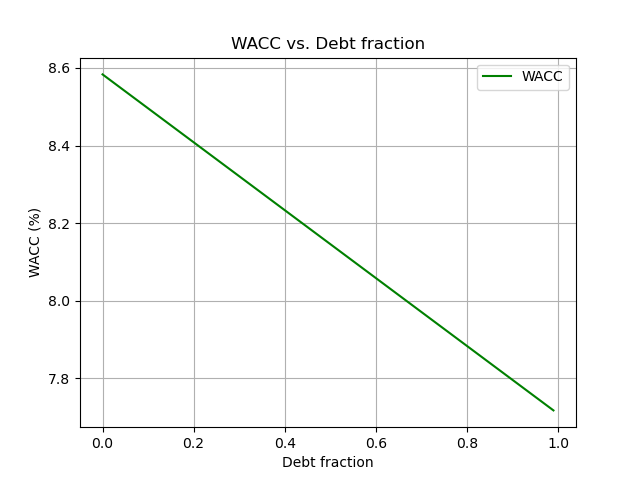
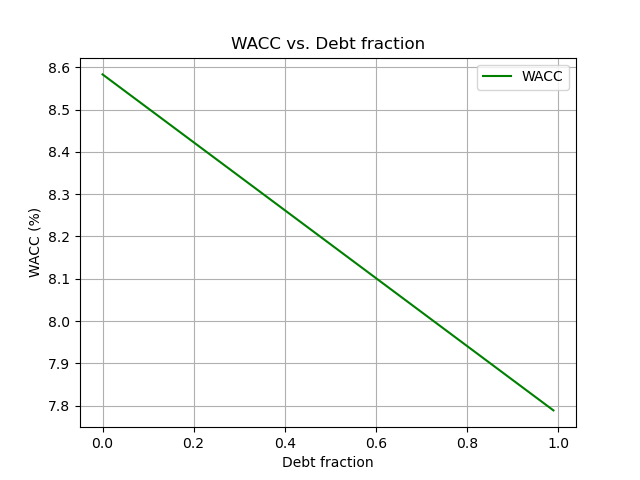
q10

diff --git a/calc.py b/calc.py
@@ -1,49 +1,42 @@
 import numpy as np
 import matplotlib.pyplot as plt
+from pathlib import Path
 
 # DRIVER LAYER (FUNDAMENTAL FORMULAE)
 
-def leverage_ratio_from_de_ratio(de_ratio):
+def dv_ratio_from_de_ratio(de_ratio):
     l = de_ratio / (de_ratio + 1)
     return l
 
-def wacc(tax, leverage_ratio, cost_of_equity, cost_of_debt):
-    wacc = (leverage_ratio * (1 - tax) * cost_of_debt) + ((1 - leverage_ratio) * cost_of_equity)
+def wacc(tax, debt_fraction, cost_of_equity, cost_of_debt):
+    wacc = (debt_fraction * (1 - tax) * cost_of_debt) + ((1 - debt_fraction) * cost_of_equity)
     return wacc
 
-def asset_beta(leverage_ratio, b_equity):
-    b_asset = (1 - leverage_ratio) * b_equity
+def asset_beta(debt_fraction, b_equity):
+    b_asset = (1 - debt_fraction) * b_equity
     return b_asset
 
 def cost_of_equity(beta, emrp, rf):
     return (rf + (beta * emrp))
 
-def unlevered_asset_beta(leverage_ratio, beta_equity):
-    return ((1 - leverage_ratio) * beta_equity)
+def unlevered_asset_beta(debt_fraction, beta_equity):
+    return ((1 - debt_fraction) * beta_equity)
 
-def relevered_equity_beta(leverage_ratio_2, beta_asset):
-    return ((1/(1 - leverage_ratio_2)) * beta_asset)
+def relevered_equity_beta(debt_fraction_2, beta_asset):
+    return ((1/(1 - debt_fraction_2)) * beta_asset)
 
 # APPLICATION LAYER
 
-def average_tax_rate(print_output=False):
-    tax = {}
-    tax["2004"] = 7414/17910
-    tax["2005"] = 12830/32723
-    tax["2006"] = 11747/30447
+def q3_tax_rate(print_output=False):
+    tax_2006 = 11747/30447
     if print_output:
         print()
-        for i in tax.keys():
-            print(f"Tax rate in year {i}: {tax[i]}")
+        print(f"Q3: Tax rate in year 2006 = {tax_2006}")
 
-    avg_tax_rate = (tax["2004"] + tax["2005"] + tax["2006"]) / 3
-    if print_output:
-        print(f"Q3: Average tax rate = {avg_tax_rate}")
-        print()
-    return avg_tax_rate
+    return tax_2006
 
 
-def midland_cost_of_equity(print_output=False):
+def q5_midland_cost_of_equity(print_output=False):
     rf = 0.0466
     beta = 1.25
     emrp = 0.05
@@ -52,21 +45,21 @@ def midland_cost_of_equity(print_output=False):
         print(f"Q5: Midland's consolidated cost of equity = {re}")
     return re
 
-def midland_wacc_2006():
+def q6_midland_wacc_2006():
     de_ratio = 0.593
-    l = leverage_ratio_from_de_ratio(de_ratio)
+    l = dv_ratio_from_de_ratio(de_ratio)
     rd = 0.0628
-    re = midland_cost_of_equity()
-    t = average_tax_rate()
+    re = q5_midland_cost_of_equity()
+    t = q3_tax_rate()
     wacc_2006 = wacc(t, l, re, rd)
     print()
     print(f"Q6: WACC in 2006 = {wacc_2006}")
 
-def unlevered_asset_beta_2006(print_output=False):
+def q7_unlevered_asset_beta_2006(print_output=False):
     de_ratio = 0.593
     beta_equity = 1.25
-    leverage_ratio = leverage_ratio_from_de_ratio(de_ratio)
-    beta_asset = unlevered_asset_beta(leverage_ratio, beta_equity)
+    debt_fraction = dv_ratio_from_de_ratio(de_ratio)
+    beta_asset = unlevered_asset_beta(debt_fraction, beta_equity)
     if print_output:
         print()
         print(f"Q7: Unlevered asset beta in 2006 = {beta_asset}")
@@ -74,9 +67,9 @@ def unlevered_asset_beta_2006(print_output=False):
     return beta_asset
 
 def relevered_beta_equity_2007(print_output=False):
-    leverage_ratio_2007 = 0.422
-    beta_asset = unlevered_asset_beta_2006()
-    beta_equity_2007 = relevered_equity_beta(leverage_ratio_2007, beta_asset)
+    debt_fraction_2007 = 0.422
+    beta_asset = q7_unlevered_asset_beta_2006()
+    beta_equity_2007 = relevered_equity_beta(debt_fraction_2007, beta_asset)
     if print_output:
         print()
         print(f"Beta equity for 2007: {beta_equity_2007}")
@@ -91,25 +84,25 @@ def future_cost_of_equity_2007(print_output=False):
         print(f"Q8: Cost of equity = {re}")
     return re
 
-def future_wacc_2007(print_output=False):
+def q8_future_wacc_2007(print_output=False):
     l2 = 0.422
     rd = 0.0628
-    t = average_tax_rate()
+    t = q3_tax_rate()
     re = future_cost_of_equity_2007()
     wacc_2007 = wacc(t, l2, re, rd)
     if print_output:
         print(f"Q8: WACC in 2007 = {wacc_2007}")
 
-def graphs():
+def q9_graphs():
     rf = 0.0466
     rd = 0.0628
     emrp = 0.05
-    t = average_tax_rate()
+    t = q3_tax_rate()
     l_values = np.arange(0, 1., 0.01)
     re_data = []
     wacc_data = []
     for l in l_values:
-        beta = relevered_equity_beta(l, unlevered_asset_beta(leverage_ratio_from_de_ratio(0.593), 1.25))
+        beta = relevered_equity_beta(l, unlevered_asset_beta(dv_ratio_from_de_ratio(0.593), 1.25))
         re_value = cost_of_equity(beta, emrp, rf)
         re_data.append(re_value)
         wacc_value = wacc(t, l, re_value, rd)
@@ -122,7 +115,7 @@ def graphs():
     plt.title('Cost of Equity vs. Debt Fraction')
     plt.grid(True)
     plt.legend()
-    plt.savefig("images/cost_of_equity.png")
+    plt.savefig(Path(__file__).parent / "images" / "cost_of_equity.png")
 
     plt.figure()
     plt.plot(l_values, np.array(wacc_data) * 100, label='WACC', color='green')
@@ -131,14 +124,98 @@ def graphs():
     plt.title('WACC vs. Debt fraction')
     plt.grid(True)
     plt.legend()
-    plt.savefig("images/wacc.png")
+    plt.savefig(Path(__file__).parent / "images" / "wacc.png")
+
+def q10_company_segment_betas():
+    print("Q10")
+    e_and_p_equity_betas = {
+        "Jackson": 0.89,
+        "Wide Plain": 1.21,
+        "Corsicana": 1.11,
+        "Worthington": 1.39
+    }
+    e_and_p_de_ratios = {
+        "Jackson": 0.112,
+        "Wide Plain": 0.854,
+        "Corsicana": 0.152,
+        "Worthington": 0.475
+    }
+    r_and_m_equity_betas = {
+        "Bexar": 1.70,
+        "Kirk": 0.94,
+        "White Point": 1.78,
+        # Petrarch is the outlier
+        "Arkana": 1.25,
+        "Beaumont": 1.04,
+        "Dameron": 1.42
+    }
+    r_and_m_de_ratios = {
+        "Bexar": 0.103,
+        "Kirk": 0.194,
+        "White Point": 0.209,
+        # Petrarch is the outlier
+        "Arkana": 0.323,
+        "Beaumont": 0.206,
+        "Dameron": 0.503
+    }
+
+    e_and_p_asset_betas = {}
+    for i in e_and_p_equity_betas.keys():
+        e_and_p_asset_betas[i] = asset_beta(dv_ratio_from_de_ratio(e_and_p_de_ratios[i]), e_and_p_equity_betas[i])
+    
+    for k, v in e_and_p_asset_betas.items():
+        print(f"Asset beta for {k}: {v}")
+
+    r_and_m_asset_betas = {}
+    for i in r_and_m_equity_betas.keys():
+        r_and_m_asset_betas[i] = asset_beta(dv_ratio_from_de_ratio(r_and_m_de_ratios[i]), r_and_m_equity_betas[i])
+
+    for k, v in r_and_m_asset_betas.items():
+        print(f"Asset beta for {k}: {v}")
+
+    print()
+
+    e_and_p_avg_asset_beta = sum(e_and_p_asset_betas.values()) / len(e_and_p_asset_betas)
+    print(f"Average asset beta for exploration and marketing: {e_and_p_avg_asset_beta}")
+
+    r_and_m_avg_asset_beta = sum(r_and_m_asset_betas.values()) / len(r_and_m_asset_betas)
+    print(f"Average asset beta for refining and marketing: {r_and_m_avg_asset_beta}")
+
+    e_and_p_dv_midland = 0.46
+    r_and_m_dv_midland = 0.31
+    e_and_p_rd_midland = 0.0626
+    r_and_m_rd_midland = 0.0646
+    rf = 0.0466
+    emrp = 0.05
+    t = q3_tax_rate()
+
+
+    e_and_p_equity_beta_midland = relevered_equity_beta(e_and_p_dv_midland, e_and_p_avg_asset_beta)
+    r_and_m_equity_beta_midland = relevered_equity_beta(r_and_m_dv_midland, r_and_m_avg_asset_beta)
+
+    e_and_p_cost_of_equity_midland = cost_of_equity(e_and_p_equity_beta_midland, emrp, rf)
+    r_and_m_cost_of_equity_midland = cost_of_equity(r_and_m_equity_beta_midland, emrp, rf)
+
+    e_and_p_wacc = wacc(t, e_and_p_dv_midland, e_and_p_cost_of_equity_midland, e_and_p_rd_midland)
+    r_and_m_wacc = wacc(t, r_and_m_dv_midland, r_and_m_cost_of_equity_midland, r_and_m_rd_midland)
+
+    print(f"Midland's equity beta for Exploration and Production: {e_and_p_equity_beta_midland}")
+    print(f"Midland's equity beta for Refining and Marketing: {r_and_m_equity_beta_midland}")
+
+    print(f"Midland's cost of equity for Exploration and Production: {e_and_p_cost_of_equity_midland}")
+    print(f"Midland's cost of equity for Refining and Marketing: {r_and_m_cost_of_equity_midland}")
+
+    print(f"Midland's WACC for Exploration and Production: {e_and_p_wacc}")
+    print(f"Midland's WACC for Refining and Marketing: {r_and_m_wacc}")
+
 
 if __name__ == "__main__":
-    average_tax_rate(print_output=True)
-    midland_cost_of_equity(print_output=True)
-    midland_wacc_2006()
-    unlevered_asset_beta_2006(print_output=True)
-    relevered_beta_equity_2007(print_output=True)
-    future_cost_of_equity_2007(print_output=True)
-    future_wacc_2007(print_output=True)
-    graphs()
+    # q3_tax_rate(print_output=True)
+    # q5_midland_cost_of_equity(print_output=True)
+    # q6_midland_wacc_2006()
+    # q7_unlevered_asset_beta_2006(print_output=True)
+    # relevered_beta_equity_2007(print_output=True)
+    # future_cost_of_equity_2007(print_output=True)
+    # q8_future_wacc_2007(print_output=True)
+    # q9_graphs()
+    q10_company_segment_betas();

diff --git a/main.tex b/main.tex
@@ -51,16 +51,13 @@ These 4 costs of debt are different because the credit ratings correspond with t
 
 We can also analyze the difference in the 4 costs of debt based on the nature of operations. Refining \& Marketing is seen as a riskier venture to invest in for three reasons: (a) stiff competition; (b) highly commoditized products; and (c) declining margins over the previous 20 years. So Refining \& Marketing has the lowest credit rating and therefore the highest cost of debt. Exploration \& Production was one of Midland's most profitable ventures, so there is a little more confidence in that business venture. However, that is offset by the fact that Midland has assets in politically volatile regions like the Middle East, Central Asia, Russia, and West Africa. So it has a slightly higher credit rating of A+. Petrochemicals has the highest credit rating because it has manufacturing facilities and research centers all over the world. Several older facilities were also replaced by more efficient ones - so there is much more confidence in this business segment compared to the other two, and that reflects in the highest credit rating out of the three (AA-) and the lowest cost of debt (6.01\%).
 
-For Midland's WACC calculations, it makes the most sense to take the average of the three tax rates in 2004, 2005, and 2006.
+For Midland's WACC calculations, we care about the WACC in year 2006. So it makes the most sense to take the tax in year 2006.
 
 \begin{align*}
-    t_{2004} = \frac{\$7,414}{\$17,910} &= 41.40\% \\
-    t_{2004} = \frac{\$7,414}{\$17,910} &= 39.20\% \\
-    t_{2004} = \frac{\$7,414}{\$17,910} &= 38.58\% \\
-    t_{avg} = \frac{41.40\% + 39.20\% + 38.58\%}{3} &= 39.73\%
+    t_{2006} = \frac{\$7,414}{\$17,910} &= 38.58\% \\
 \end{align*}
 
-So the average tax rate that we recommend using for WACC calculations is 39.73\%.
+So the average tax rate that we recommend using for WACC calculations is 38.58\%.
 
 The EMRP represents the difference between the expected return on equity and the risk-free rate. 
 
@@ -93,11 +90,11 @@ To calculate the after-tax cost of capital, we need one more piece of informatio
 
 \begin{align*}
 WACC_{a.t.} &= \lambda (1-t) r_D + (1-\lambda)r_E \\
-            &= 0.3723 \times (1 - 0.3973) \times 0.0628 + (1 - 0.3723) \times 0.1091 \\
-            &= 0.08258
+            &= 0.3723 \times (1 - 0.3858) \times 0.0628 + (1 - 0.3723) \times 0.1091 \\
+            &= 0.08285
 \end{align*}
 
-The $WACC_{a.t.}$ is 8.26\%.
+The $WACC_{a.t.}$ is 8.29\%.
 
 To find the un-levered asset beta, we can use the formula below.
 
@@ -134,11 +131,11 @@ The new cost of equity is 11.45\%. The corresponding WACC can be calculated as s
 
 \begin{align*}
 WACC_{a.t., 2007} &= \lambda_2 (1-t) r_D + (1-\lambda_2)r_{E,2} \\
-            &= 0.422 \times (1 - 0.3973) \times 0.0628 + (1 - 0.422) \times 0.1145 \\
-            &= 0.08214
+            &= 0.422 \times (1 - 0.3858) \times 0.0628 + (1 - 0.422) \times 0.1145 \\
+            &= 0.08244
 \end{align*}
 
-The corresponding WACC is 8.21\%. This is lesser than the WACC in 2006 by 0.05\%. A lower WACC implies that the company can more easily acquire financing for any project it wants to take on, which means there are more economically viable investments that the company can undertake.
+The corresponding WACC is 8.24\%. This is lesser than the WACC in 2006 by 0.05\%. A lower WACC implies that the company can more easily acquire financing for any project it wants to take on, which means there are more economically viable investments that the company can undertake.
 
 To graph the company's cost of equity and WACC as a function of it debt fraction, we can unlever and relever the beta values for each debt fraction and plot the corresponding costs of equity and WACC.
 
@@ -147,6 +144,17 @@ To graph the company's cost of equity and WACC as a function of it debt fraction
     \caption{Cost of equity vs. Debt Fraction}
 \end{figure}
 
+\color{orange}
 The cost of equity rises because as the debt value increases, the risk to investors increases so they demand a higher rate of return. At 0 debt, there is little risk to investors - so the cost of equity is very low. As debt increases, the interest that the investors require increases dramatically.
+\color{black}
+
+\begin{figure}[H]
+    \includegraphics[width=\linewidth]{images/wacc.png}
+    \caption{WACC vs. Debt Fraction}
+\end{figure}
+
+\color{orange}
+This makes sense because we assume a constant cost of debt $r_D$, which means that as the debt fraction goes up there's a lesser proportion of equity, so it's a decreasing linear relationship.
+\color{black}
 
 \end{document}
